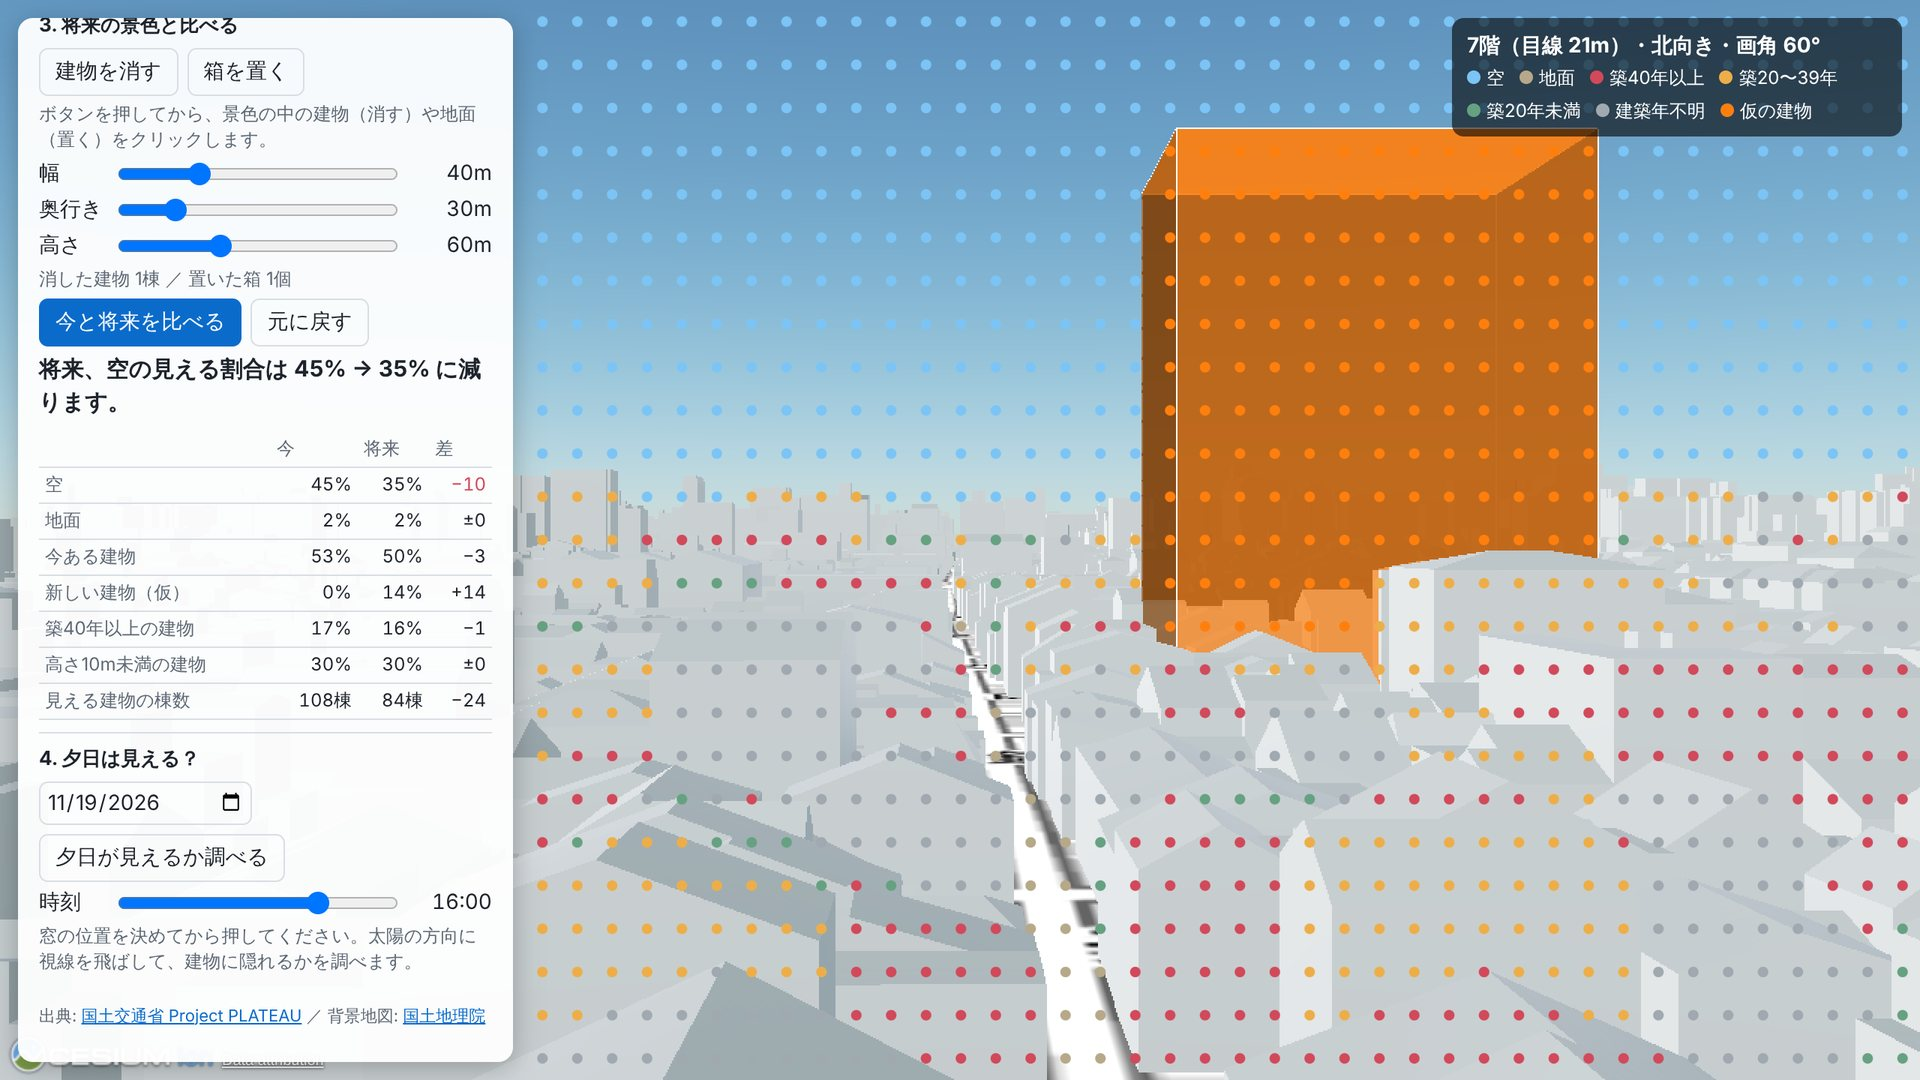
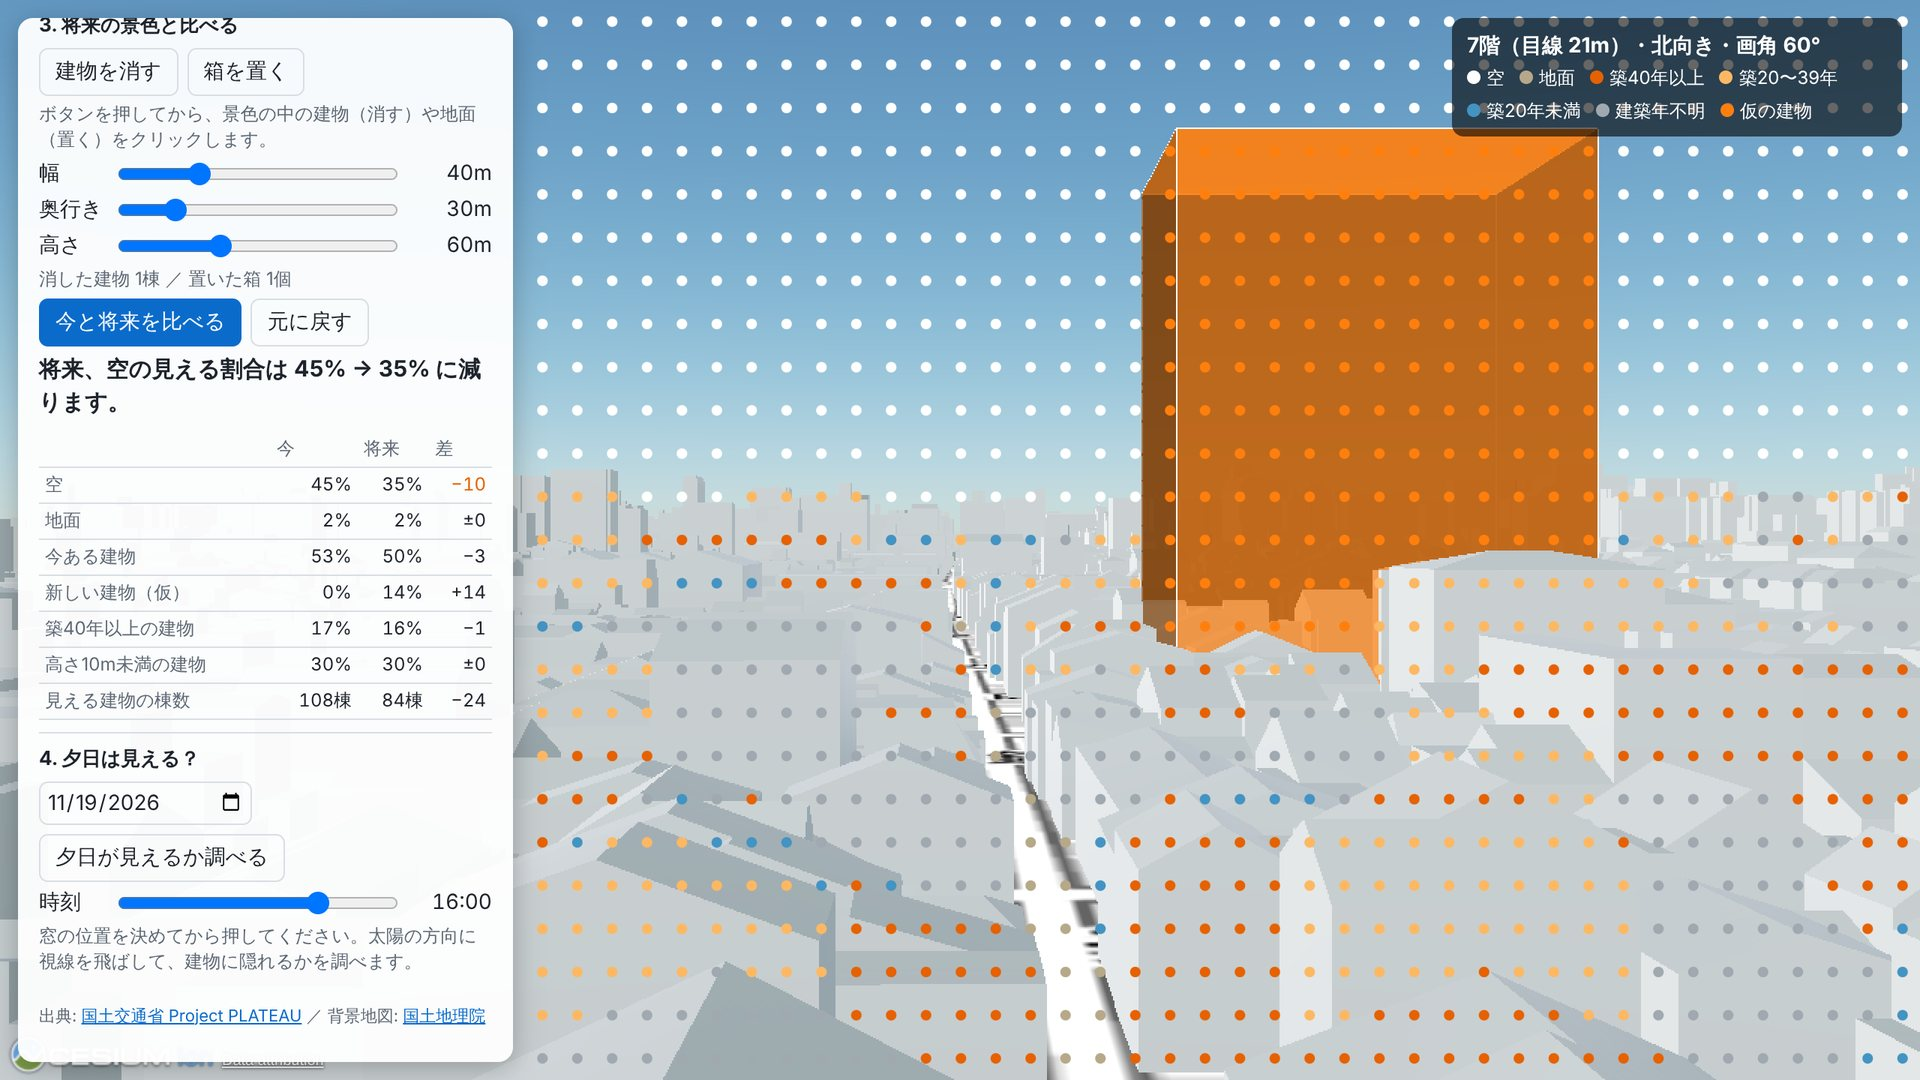
Slides and entry image: recapture with the color-blind-safe palette; QR layout fix
Claude-Session: https://claude.ai/code/session_01BueAF1gnbgguhmsn8vKgSn

diff --git a/docs/slides/index.html b/docs/slides/index.html
@@ -41,9 +41,10 @@
   .cover .t { position: absolute; left: 64px; bottom: 64px; right: 64px; color: #fff; text-shadow: 0 2px 12px rgba(0,0,0,.6); }
   .cover .t h1 { font-size: 68px; margin: 0 0 8px; }
   .cover .t p { font-size: 28px; margin: 0; }
-  .cover .qr { position: absolute; right: 40px; top: 36px; background: #fff; border-radius: 10px; padding: 10px 10px 6px; text-align: center; z-index: 2; }
-  .cover .qr img { width: 120px; height: 120px; display: block; margin: 0 auto; }
-  .cover .qr span { font-size: 12px; color: #1d232b; }
+  .cover .qr { position: absolute; right: 48px; bottom: 56px; background: #fff; border-radius: 10px; padding: 10px 12px 8px; text-align: center; z-index: 2; }
+  .cover .qr img { position: static; inset: auto; object-fit: contain; width: 130px; height: 130px; display: block; margin: 0 auto 4px; }
+  .cover .qr span { display: block; font-size: 13px; color: #1d232b; white-space: nowrap; }
+  .cover .t { right: 300px !important; }
   .try { margin-top: 18px; display: flex; gap: 22px; align-items: center; }
   .try img { width: 130px; height: 130px; }
   .try a { color: var(--accent); word-break: break-all; }

diff --git a/docs/slides/index2.html b/docs/slides/index2.html
@@ -41,9 +41,10 @@
   .cover .t { position: absolute; left: 64px; bottom: 64px; right: 64px; color: #fff; text-shadow: 0 2px 12px rgba(0,0,0,.6); }
   .cover .t h1 { font-size: 68px; margin: 0 0 8px; }
   .cover .t p { font-size: 28px; margin: 0; }
-  .cover .qr { position: absolute; right: 40px; top: 36px; background: #fff; border-radius: 10px; padding: 10px 10px 6px; text-align: center; z-index: 2; }
-  .cover .qr img { width: 120px; height: 120px; display: block; margin: 0 auto; }
-  .cover .qr span { font-size: 12px; color: #1d232b; }
+  .cover .qr { position: absolute; right: 48px; bottom: 56px; background: #fff; border-radius: 10px; padding: 10px 12px 8px; text-align: center; z-index: 2; }
+  .cover .qr img { position: static; inset: auto; object-fit: contain; width: 130px; height: 130px; display: block; margin: 0 auto 4px; }
+  .cover .qr span { display: block; font-size: 13px; color: #1d232b; white-space: nowrap; }
+  .cover .t { right: 300px !important; }
   .try { margin-top: 18px; display: flex; gap: 22px; align-items: center; }
   .try img { width: 130px; height: 130px; }
   .try a { color: var(--accent); word-break: break-all; }
